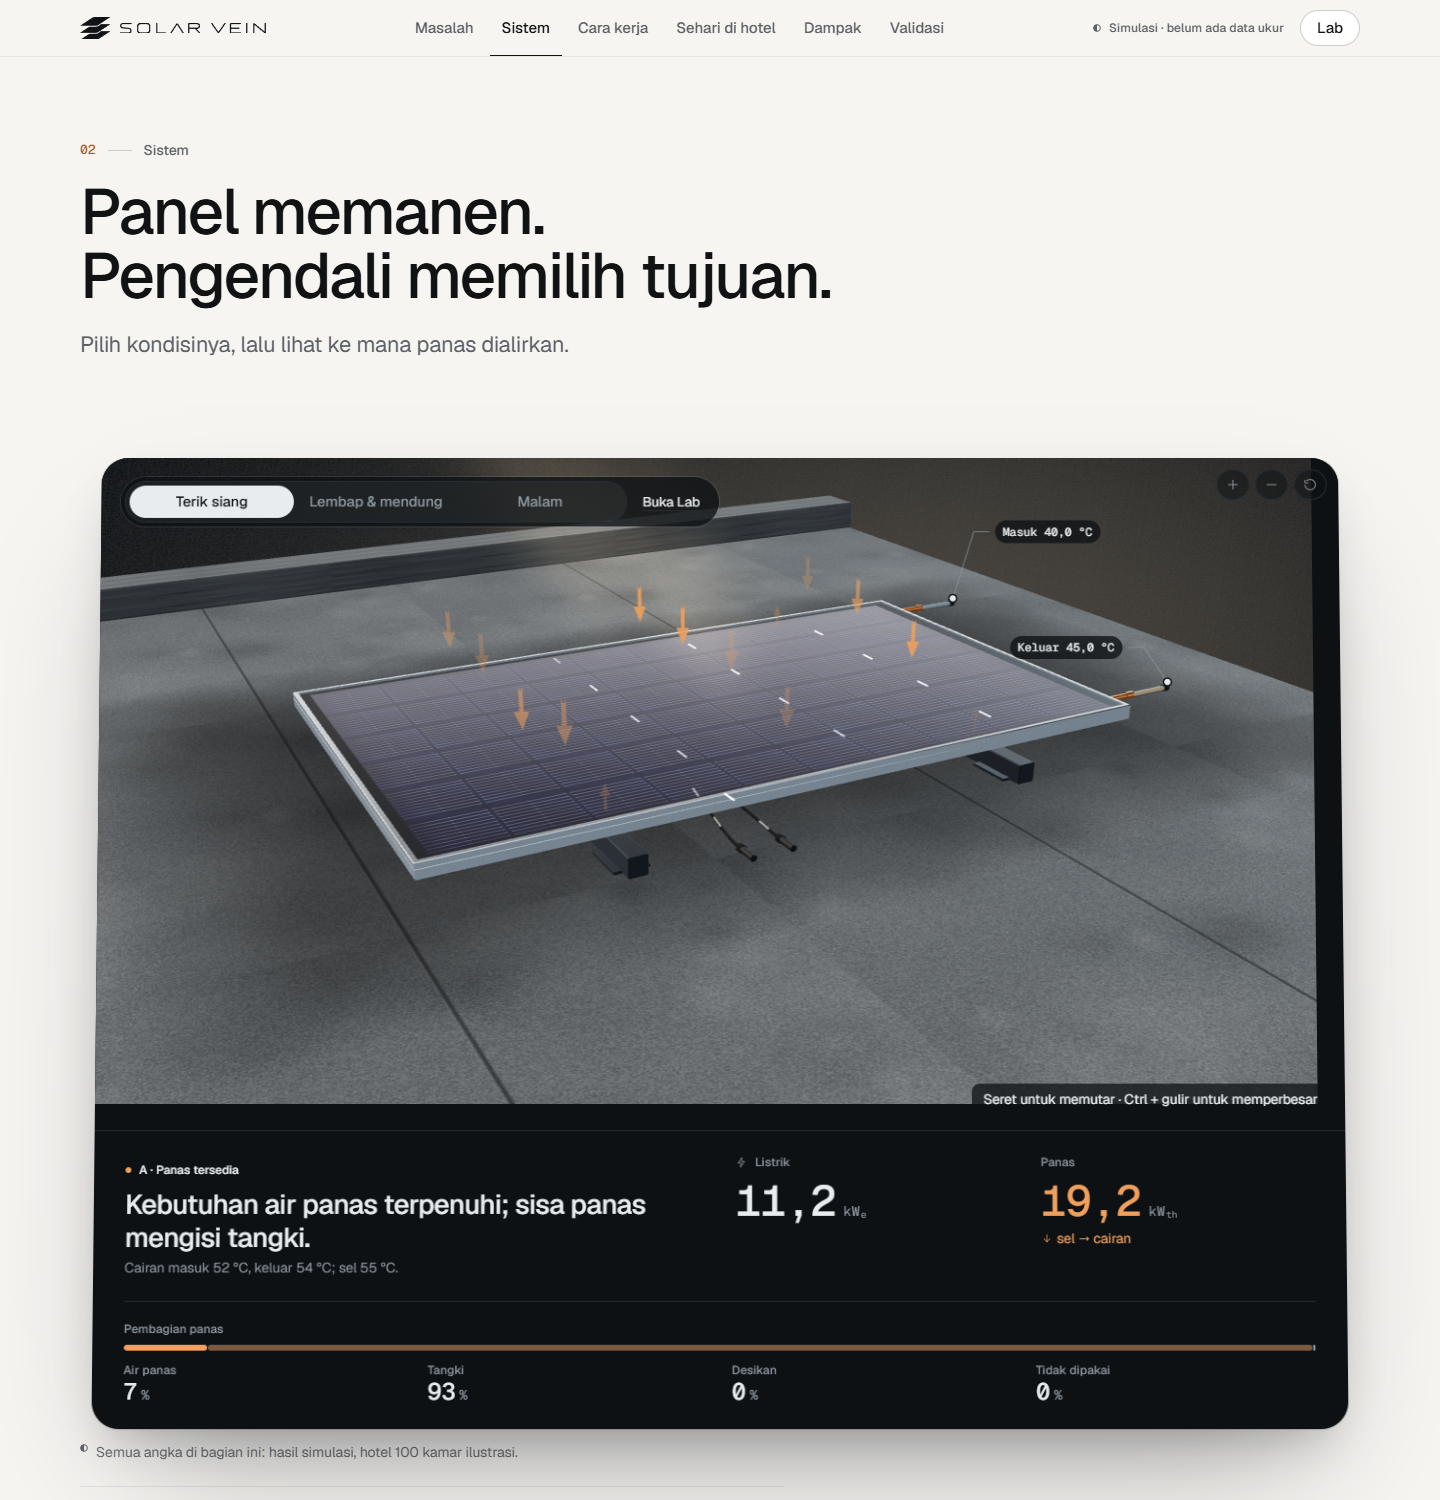
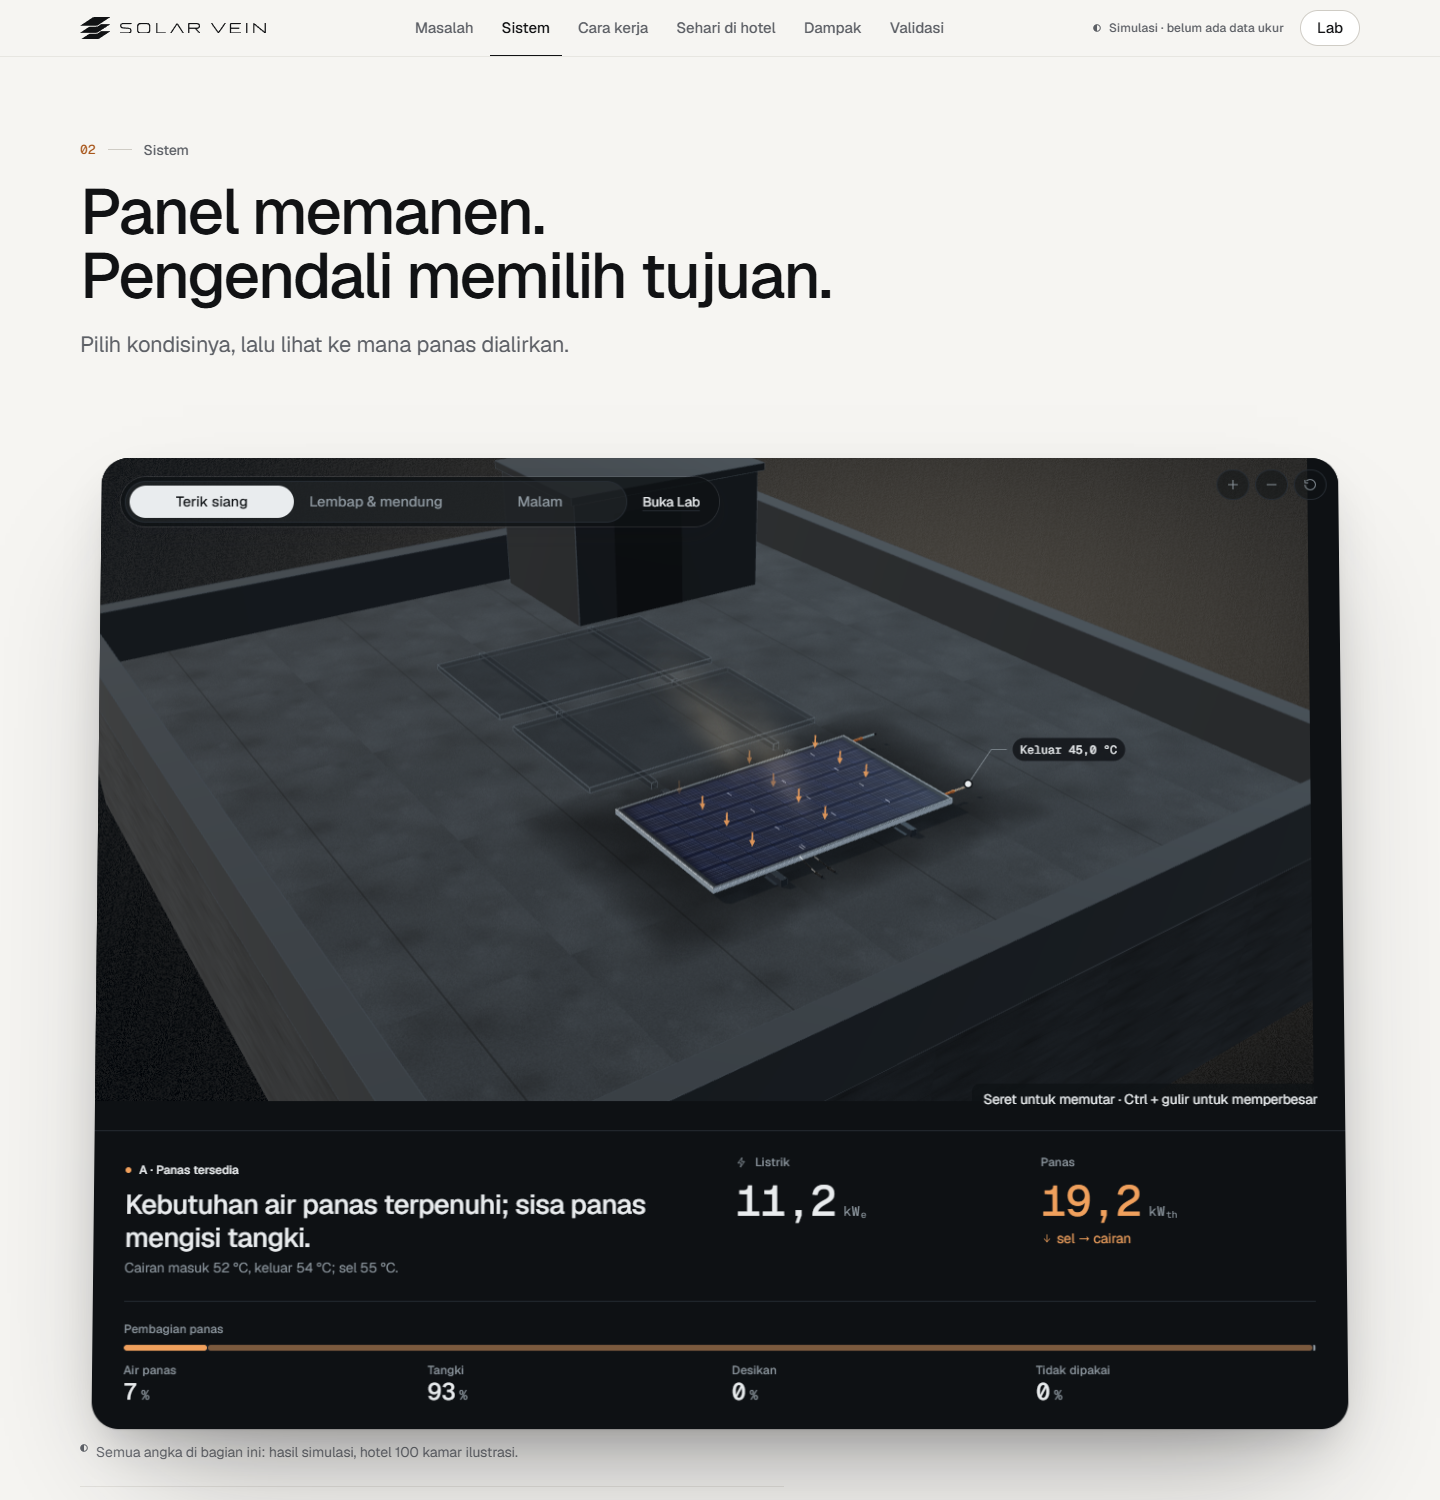
feat(sections): Sistem pull-back framing, short A/B/C labels, Masalah copy trim, Humid interlude polish

Changed region(s): [[0.0625, 0.3067, 0.9375, 0.736]]

diff --git a/src/sections/Hero.tsx b/src/sections/Hero.tsx
@@ -1,11 +1,12 @@
 import gsap from 'gsap';
-import { Suspense, lazy, useMemo, useRef } from 'react';
-import { useMediaQuery } from '../hooks';
-import { WeatherSky, useScrollScene } from '../motion';
+import { Suspense, lazy, useEffect, useMemo, useRef } from 'react';
+import { useMediaQuery, useReducedMotion } from '../hooks';
+import { ScrollTrigger, WeatherSky, useScrollScene } from '../motion';
 import { LABELS, MODE_TARGETS, type ModeTarget } from '../sim/system';
 import { useStep } from '../state/systemSelectors';
 import { useSystemStore } from '../state/system';
 import { SISTEM } from '../content/sistem';
+import { createStageStore } from '../viz3d/stage';
 import { Evidence, InfoTip, SectionHeader, SegmentedControl, type SegmentedOption } from '../ui';
 import { DetailPanel } from './hero/DetailPanel';
 import { ElectricReadout, HeatReadout } from './hero/LiveReadout';
@@ -20,6 +21,12 @@ const CollectorStage = lazy(() => import('../viz3d/CollectorStage'));
 /** A / B / C are CONDITIONS (scenario + time); the labels name them, the controller computes the real mode. */
 const TARGETS = Object.keys(MODE_TARGETS) as ModeTarget[];
 const OPTIONS: readonly SegmentedOption<ModeTarget>[] = TARGETS.map((k) => ({ value: k, label: LABELS.modeTarget[k] }));
+/** Narrow screens: the first word of the same label (full label stays in the tooltip / accessible name). */
+const OPTIONS_SHORT: readonly SegmentedOption<ModeTarget>[] = TARGETS.map((k) => ({
+  value: k,
+  label: LABELS.modeTarget[k].split(/[ &]/)[0] ?? LABELS.modeTarget[k],
+  description: LABELS.modeTarget[k],
+}));
 
 /** While the 3D chunk loads, show a still rendered from the same model (public/images/renders) instead of an empty box. */
 function StageFallback() {
@@ -58,12 +65,13 @@ function ModeSwitch({ wide }: { wide: boolean }) {
   const target = useSystemStore((s) => s.modeTarget);
   const setModeTarget = useSystemStore((s) => s.setModeTarget);
   const custom = target === 'custom';
+  const sm = useMediaQuery('(min-width: 640px)', true);
   const tone = wide ? 'stage' : 'page';
   return (
     <div className="flex flex-wrap items-center gap-x-4 gap-y-2">
       <SegmentedControl
         ariaLabel={SISTEM.switchLabel}
-        options={OPTIONS}
+        options={sm ? OPTIONS : OPTIONS_SHORT}
         value={custom ? 'A' : target}
         noSelection={custom}
         onChange={setModeTarget}
@@ -90,13 +98,19 @@ function ModeSwitch({ wide }: { wide: boolean }) {
  * computed mode with its reason, the two array readouts (Listrik, Panas) and the one-line router split form the strip.
  * Everything live reads the v2 DayStep at the store hour; the camera is never touched by a condition change.
  *
- * TODO(W6): when the stage store exposes the hotel pull-back framing, drive it from this section's scroll progress
- * (card enters: close on the array; card centred: pulled back to the hotel roof). `[data-stage-card]` is the trigger.
+ * Pull-back: the stage store's framing (0 = panel, 1 = hotel roof) is scrubbed by this section's scroll, so the camera
+ * opens on the collector and retreats to the hotel roof as the card reaches the eye line. A/B/C never moves the camera.
+ * Reduced motion: no scrub, the stage rests on the hotel framing.
  */
 export default function Hero() {
   const wide = useMediaQuery('(min-width: 1024px)', true);
   const tablet = useMediaQuery('(min-width: 768px)', true);
   const root = useRef<HTMLElement>(null);
+  const store = useMemo(() => createStageStore({ exploded: false }), []);
+  const reduce = useReducedMotion();
+  useEffect(() => {
+    if (reduce) store.getState().setFraming('hotel');
+  }, [reduce, store]);
 
   // Depth on entry: the stage card arrives slightly smaller and tilted back, and settles flat as it reaches the eye line.
   useScrollScene(root, ({ desktop }) => {
@@ -105,7 +119,14 @@ export default function Hero() {
       { scale: desktop ? 0.9 : 0.96, rotateX: desktop ? 9 : 0, y: desktop ? 40 : 16, transformPerspective: 1600, transformOrigin: '50% 100%' },
       { scale: 1, rotateX: 0, y: 0, ease: 'none', scrollTrigger: { trigger: '[data-stage-card]', start: 'top bottom', end: 'top 30%', scrub: 0.5 } },
     );
-    gsap.fromTo('[data-strip] > *', { autoAlpha: 0, y: 16 }, { autoAlpha: 1, y: 0, stagger: 0.08, duration: 0.8, ease: 'power3.out', scrollTrigger: { trigger: '[data-stage-card]', start: 'top 45%', once: true } });
+    // camera pull-back, scrubbed with the card's approach (continuous 0..1; the camera springs after it)
+    ScrollTrigger.create({
+      trigger: '[data-stage-card]',
+      start: 'top 85%',
+      end: 'top 15%',
+      onUpdate: (self) => store.getState().setFraming(self.progress),
+    });
+    if (root.current?.querySelector('[data-strip]')) gsap.fromTo('[data-strip] > *', { autoAlpha: 0, y: 16 }, { autoAlpha: 1, y: 0, stagger: 0.08, duration: 0.8, ease: 'power3.out', scrollTrigger: { trigger: '[data-stage-card]', start: 'top 45%', once: true } });
   });
 
   return (
@@ -130,7 +151,7 @@ export default function Hero() {
         <div data-stage-card data-tone="stage" className="mt-10 overflow-hidden rounded-[20px] bg-stage-0 text-stage-ink shadow-4 will-change-transform lg:mt-14 lg:rounded-[28px]">
           <div className="relative h-[360px] sm:h-[480px] lg:h-[clamp(480px,calc(100svh-18rem),700px)]">
             <Suspense fallback={<StageFallback />}>
-              <CollectorStage zoomButtons={tablet} hint>
+              <CollectorStage store={store} zoomButtons={tablet} hint>
                 {wide ? (
                   <div className="absolute left-5 top-5 z-20 flex items-center gap-4 rounded-full bg-stage-0/80 py-1 pl-1 pr-5 shadow-e2 ring-1 ring-white/10">
                     <ModeSwitch wide />

diff --git a/src/sections/InterludeHumid.tsx b/src/sections/InterludeHumid.tsx
@@ -8,7 +8,7 @@ import { Evidence, Picture, formatId } from '../ui';
 /**
  * Jeda B (#jeda-lembap): the humidity mood before the desiccant path. Graphite, short, unpinned: two lines and the one
  * pair of numbers that earns them, read from the same deterministic weather the sim uses (a rainy afternoon, 15:00).
- * The picture slot uses an existing photo, tinted away to near-black, until a condensation photograph is added
+ * The picture slot uses an existing photo, greyed and dimmed to near-black, until a condensation photograph is added
  * (swap `name` below; caption stays "Ilustrasi, bukan dokumentasi proyek").
  * NOT wired into App.tsx by this worker; the lead mounts it between #sehari and #desikan.
  */
@@ -37,10 +37,10 @@ export default function InterludeHumid() {
           <Picture fill name="cell-macro" alt="" position="50% 40%" maxWidth={1280} imgClassName="grayscale" />
         </div>
         <div className="page-wrap relative w-full">
-          <p data-l1 className="max-w-[20ch] text-display-l text-white">
+          <p data-l1 className="max-w-[28ch] text-display-l text-white">
             {JEDA_LEMBAP.lines[0]}
           </p>
-          <p data-l2 className="mt-6 max-w-[20ch] text-display-l text-white/60">
+          <p data-l2 className="mt-6 max-w-[28ch] text-display-l text-white/60">
             {JEDA_LEMBAP.lines[1]}
           </p>
           <dl data-nums className="mt-12 flex flex-wrap items-end gap-x-12 gap-y-6">

diff --git a/src/sections/Masalah.tsx b/src/sections/Masalah.tsx
@@ -38,7 +38,7 @@ export default function Masalah() {
                     {l.name}
                   </StatusDot>
                 </h3>
-                <p className="mt-3 max-w-[34ch] text-body text-ink-2 sm:min-h-[6.5rem]">{l.sentence}</p>
+                <p className="mt-3 max-w-[34ch] text-body text-ink-2 sm:min-h-[4.5rem]">{l.sentence}</p>
                 <p className="mt-6 flex flex-wrap items-baseline gap-x-2">
                   <span className="num text-readout-xl text-ink">{l.stat}</span>
                   <span className="num text-mono-s text-ink-2">{l.statUnit}</span>
@@ -50,7 +50,7 @@ export default function Masalah() {
           </div>
 
           <figure className="m-0 lg:col-span-5">
-            <div data-masalah-photo className="relative aspect-[4/3] overflow-hidden rounded-[16px] lg:aspect-[4/5] lg:rounded-[20px]">
+            <div data-masalah-photo className="relative aspect-[4/3] overflow-hidden rounded-[16px] lg:aspect-[5/4] lg:rounded-[20px]">
               <Picture fill name="roof-aisle" alt={MASALAH.picture.alt} position="50% 50%" sizes="(min-width: 1024px) 40vw, 100vw" maxWidth={1280} />
             </div>
             <figcaption className="mt-3 text-small text-ink-3">{MASALAH.picture.caption}</figcaption>

diff --git a/src/content/masalah.ts b/src/content/masalah.ts
@@ -24,7 +24,7 @@ export const MASALAH = {
     {
       id: 'air-panas',
       name: 'Air panas',
-      sentence: 'Air untuk mandi dan dapur dipanaskan dengan bahan bakar atau listrik, setiap hari.',
+      sentence: 'Air mandi dan dapur dipanaskan setiap hari dengan bahan bakar atau listrik.',
       stat: '382.160',
       statUnit: 'kamar',
       statCaption: 'di 4.129 hotel berbintang, Indonesia 2023',
@@ -33,10 +33,10 @@ export const MASALAH = {
     {
       id: 'udara-lembap',
       name: 'Udara segar lembap',
-      sentence: 'Pendingin ruangan mendinginkan dan mengeringkan udara luar; di hotel yang diaudit, inilah pemakai listrik terbesar.',
+      sentence: 'Pendingin ruangan mengeringkan udara luar yang lembap.',
       stat: '48,5–71,3',
       statUnit: '%',
-      statCaption: 'listrik hotel dipakai pendingin ruangan (profil ESDM 2000; audit satu hotel di Semarang)',
+      statCaption: 'listrik hotel untuk pendingin ruangan (profil ESDM 2000; audit satu hotel di Semarang)',
       refId: 'ariwibowo2011-hotel-audit',
     },
   ] satisfies MasalahLoad[],

diff --git a/src/content/sistem.ts b/src/content/sistem.ts
@@ -27,7 +27,7 @@ export const SISTEM = {
 export const SISTEM_DALAM = {
   index: { n: '02', label: 'Di dalam kolektor' },
   title: ['Empat lapis.', 'Satu jalur cairan.'] as const,
-  hint: 'Nilai dari kondisi yang dipilih di Sistem. Tampilan terurai, bukan skala.',
+  hint: 'Nilai satu modul pada kondisi acuan. Tampilan terurai, bukan skala.',
   listLabel: 'Bagian kolektor',
   emptyPick: 'Pilih satu bagian untuk melihat perannya.',
 } as const;
